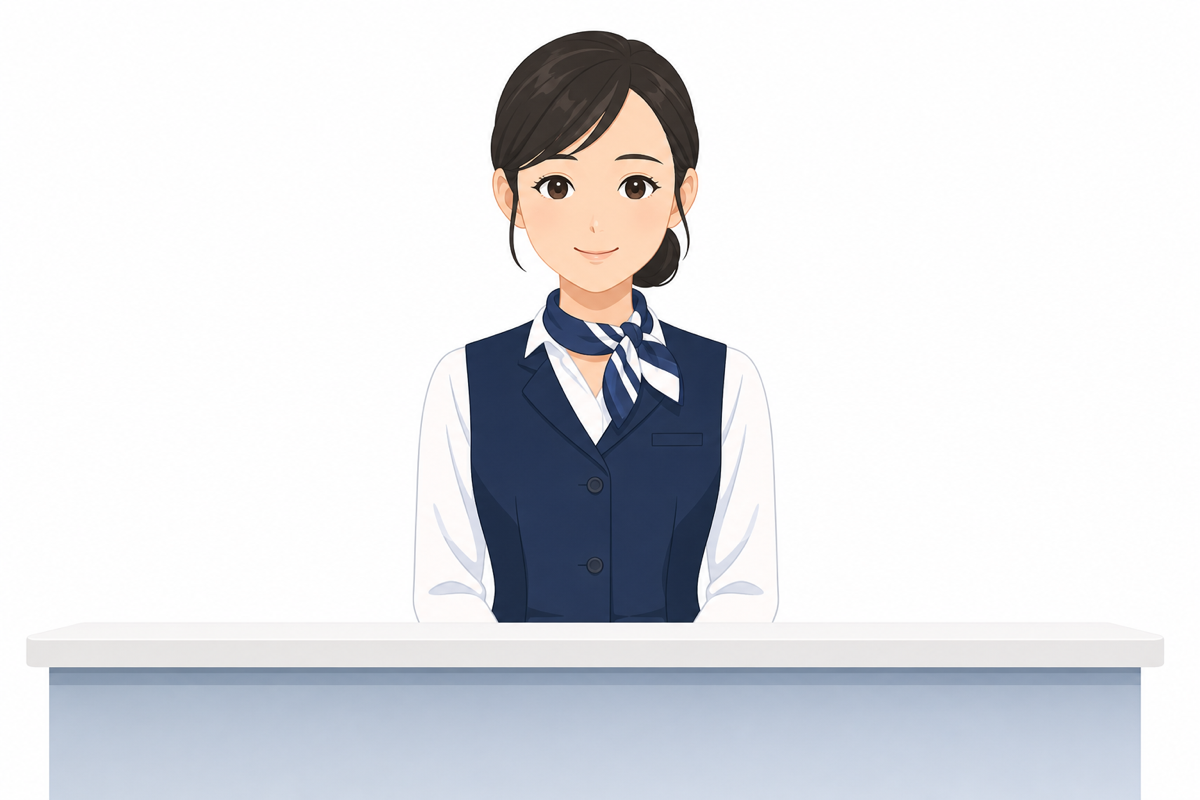
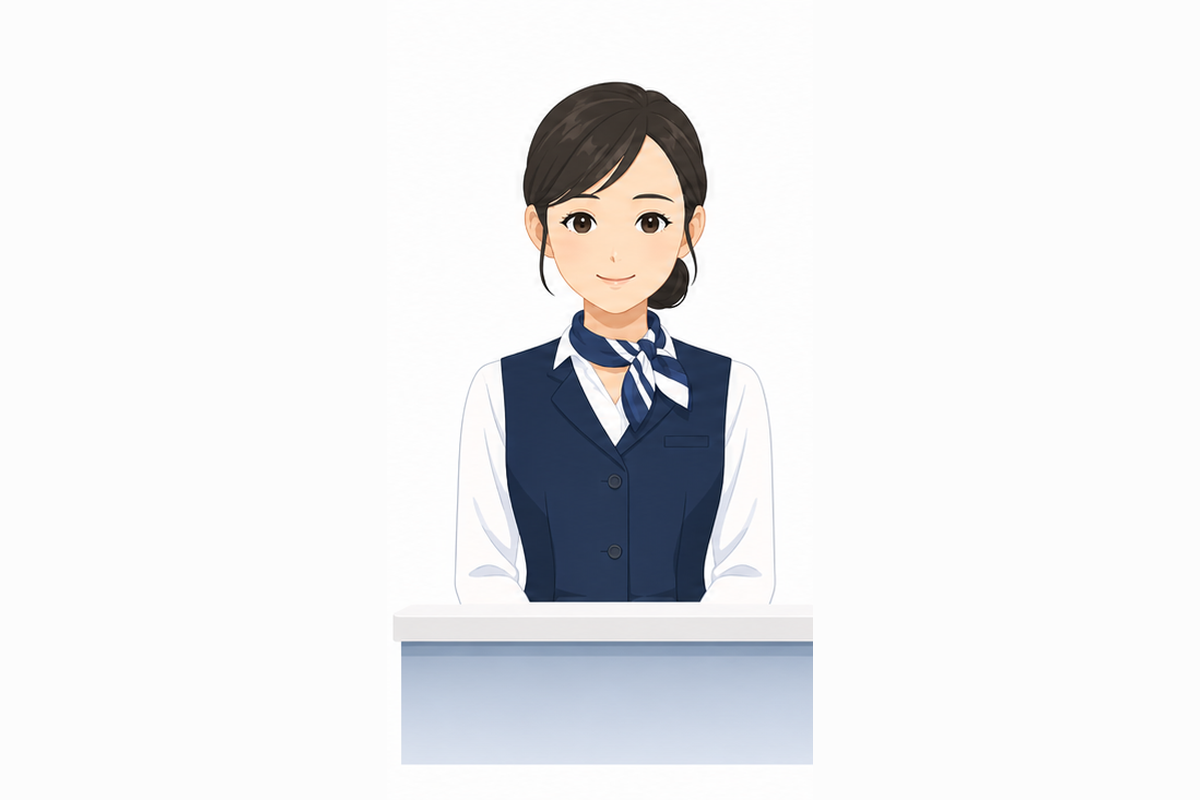
Animate receptionist with frame images

Changed region(s): [[0.0, 0.0312, 0.9558, 1.0], [0.4933, 0.6875, 0.5242, 0.7188], [0.4933, 0.5938, 0.5242, 0.625]]

diff --git a/index.html b/index.html
@@ -1313,20 +1313,6 @@
       border-radius: 0 0 8px 0;
     }
 
-    .avatar-mouth {
-      position: absolute;
-      left: 39px;
-      bottom: 24px;
-      width: 26px;
-      height: 7px;
-      border: 2px solid #9f4c4c;
-      border-top: 0;
-      border-radius: 0 0 18px 18px;
-      background: #f7ddd5;
-      transform-origin: 50% 0;
-      transition: height 0.14s ease, transform 0.14s ease;
-    }
-
     .avatar-blush {
       position: absolute;
       top: 72px;
@@ -1383,10 +1369,6 @@
 
     .reception-avatar.is-speaking {
       animation: avatarNod 1.4s ease-in-out infinite;
-    }
-
-    .reception-avatar.is-speaking .avatar-mouth {
-      animation: mouthTalk 0.38s ease-in-out infinite;
     }
 
     .reception-avatar.is-thinking .thought-dots {
@@ -1686,17 +1668,6 @@
       color: var(--text);
       font-size: 13px;
       font-weight: 600;
-    }
-
-    @keyframes mouthTalk {
-      0%, 100% {
-        height: 5px;
-        transform: translateY(0) scaleX(1);
-      }
-      45% {
-        height: 18px;
-        transform: translateY(4px) scaleX(0.82);
-      }
     }
 
     @keyframes receptionistTalk {
@@ -2197,7 +2168,7 @@
 
               <div class="avatar-scene art-scene">
                 <div class="reception-avatar art-avatar is-idle" id="receptionAvatar" aria-hidden="true">
-                  <img src="assets/receptionist/staff-idle.png" alt="">
+                  <img id="receptionistImage" src="assets/receptionist/staff-idle.png" alt="">
                   <div class="thought-dots"><span></span><span></span><span></span></div>
                 </div>
               </div>
@@ -2469,8 +2440,22 @@
       }
     };
 
+    const receptionistFrames = {
+      idle: "assets/receptionist/staff-idle.png",
+      thinking: "assets/receptionist/staff-thinking.png",
+      smile: "assets/receptionist/staff-smile.png",
+      speaking: [
+        "assets/receptionist/staff-mouth-small.png",
+        "assets/receptionist/staff-mouth-open.png",
+        "assets/receptionist/staff-mouth-small.png",
+        "assets/receptionist/staff-idle.png"
+      ]
+    };
+
     let receptionistVoiceOn = true;
     let receptionistStateTimer;
+    let receptionistFrameTimer;
+    let receptionistFrameIndex = 0;
 
     const yen = (value) => new Intl.NumberFormat("ja-JP", {
       style: "currency",
@@ -2486,6 +2471,33 @@
       toast.timer = setTimeout(() => el.classList.remove("visible"), 2300);
     }
 
+    function setReceptionistImage(src) {
+      const image = document.getElementById("receptionistImage");
+      if (image && image.getAttribute("src") !== src) image.setAttribute("src", src);
+    }
+
+    function stopReceptionistFrames() {
+      clearInterval(receptionistFrameTimer);
+      receptionistFrameTimer = undefined;
+      receptionistFrameIndex = 0;
+    }
+
+    function startReceptionistSpeaking() {
+      stopReceptionistFrames();
+      const frames = receptionistFrames.speaking;
+      setReceptionistImage(frames[0]);
+      receptionistFrameTimer = setInterval(() => {
+        receptionistFrameIndex = (receptionistFrameIndex + 1) % frames.length;
+        setReceptionistImage(frames[receptionistFrameIndex]);
+      }, 170);
+    }
+
+    function finishReceptionResponse() {
+      setReceptionState("smile", "ご用件を入力してください。");
+      clearTimeout(receptionistStateTimer);
+      receptionistStateTimer = setTimeout(() => setReceptionState("idle", "ご用件を入力してください。"), 900);
+    }
+
     function setReceptionState(state, line) {
       const avatar = document.getElementById("receptionAvatar");
       const stateText = document.getElementById("receptionStateText");
@@ -2493,9 +2505,15 @@
       const meter = document.getElementById("voiceMeter");
       if (!avatar || !stateText || !voiceLine || !meter) return;
 
+      stopReceptionistFrames();
       avatar.className = `reception-avatar art-avatar is-${state}`;
       meter.classList.toggle("is-active", state === "speaking");
-      const label = state === "speaking" ? "応答中" : state === "thinking" ? "確認中" : "待機中";
+      if (state === "speaking") {
+        startReceptionistSpeaking();
+      } else {
+        setReceptionistImage(receptionistFrames[state] || receptionistFrames.idle);
+      }
+      const label = state === "speaking" ? "応答中" : state === "thinking" ? "確認中" : state === "smile" ? "案内完了" : "待機中";
       stateText.textContent = label;
       if (line) voiceLine.textContent = line;
     }
@@ -2530,7 +2548,7 @@
       setReceptionState("speaking", text);
 
       if (!receptionistVoiceOn || !("speechSynthesis" in window)) {
-        receptionistStateTimer = setTimeout(() => setReceptionState("idle", "ご用件を入力してください。"), Math.min(3600, text.length * 60));
+        receptionistStateTimer = setTimeout(finishReceptionResponse, Math.min(3600, text.length * 60));
         return;
       }
 
@@ -2539,7 +2557,7 @@
       utterance.lang = "ja-JP";
       utterance.rate = 0.95;
       utterance.pitch = 1.04;
-      utterance.onend = () => setReceptionState("idle", "ご用件を入力してください。");
+      utterance.onend = finishReceptionResponse;
       utterance.onerror = () => setReceptionState("idle", "ご用件を入力してください。");
       window.speechSynthesis.speak(utterance);
     }
@@ -2738,6 +2756,16 @@
       event.currentTarget.textContent = receptionistVoiceOn ? "音声 ON" : "音声 OFF";
       if (!receptionistVoiceOn && "speechSynthesis" in window) window.speechSynthesis.cancel();
       setReceptionState("idle", receptionistVoiceOn ? "音声応答を有効にしました。" : "音声応答を停止しました。");
+    });
+
+    [
+      receptionistFrames.idle,
+      receptionistFrames.thinking,
+      receptionistFrames.smile,
+      ...receptionistFrames.speaking
+    ].forEach((src) => {
+      const image = new Image();
+      image.src = src;
     });
 
     drawBars();

diff --git a/README.md b/README.md
@@ -9,7 +9,7 @@
 - グラフ色数を絞った青系カラーパレット
 - 装飾よりも数値・比較・要対応の発見しやすさを優先
 - 日本のEC運用者向けの日本語文言
-- AI受付スタッフ画面は画像アセット、応答アニメーション、ブラウザ読み上げ、固定デモ応答のみで構成
+- AI受付スタッフ画面は5枚のフレーム画像、応答アニメーション、ブラウザ読み上げ、固定デモ応答のみで構成
 
 ## 開き方
 
@@ -32,7 +32,8 @@ http://127.0.0.1:8765/
 - APIキー、ログインフォーム、`.env`、Cookie保存はありません。
 - データは `index.html` 内の固定デモデータのみです。
 - AI受付の読み上げはブラウザ標準の `SpeechSynthesis` を使います。ChatGPT/Codex CLIやOpenAI APIには接続していません。
-- 受付スタッフ画像は `assets/receptionist/staff-idle.png` のローカルアセットです。
+- 受付スタッフ画像は `assets/receptionist/` 配下のローカルアセットです。
+- 応答中は `staff-mouth-small.png` と `staff-mouth-open.png` を切り替えて話しているように見せます。
 - CSPで `connect-src 'none'` を設定し、ブラウザからのネットワーク通信を禁止しています。
 - ローカル確認サーバーを使う場合は `127.0.0.1` に限定してください。
 
